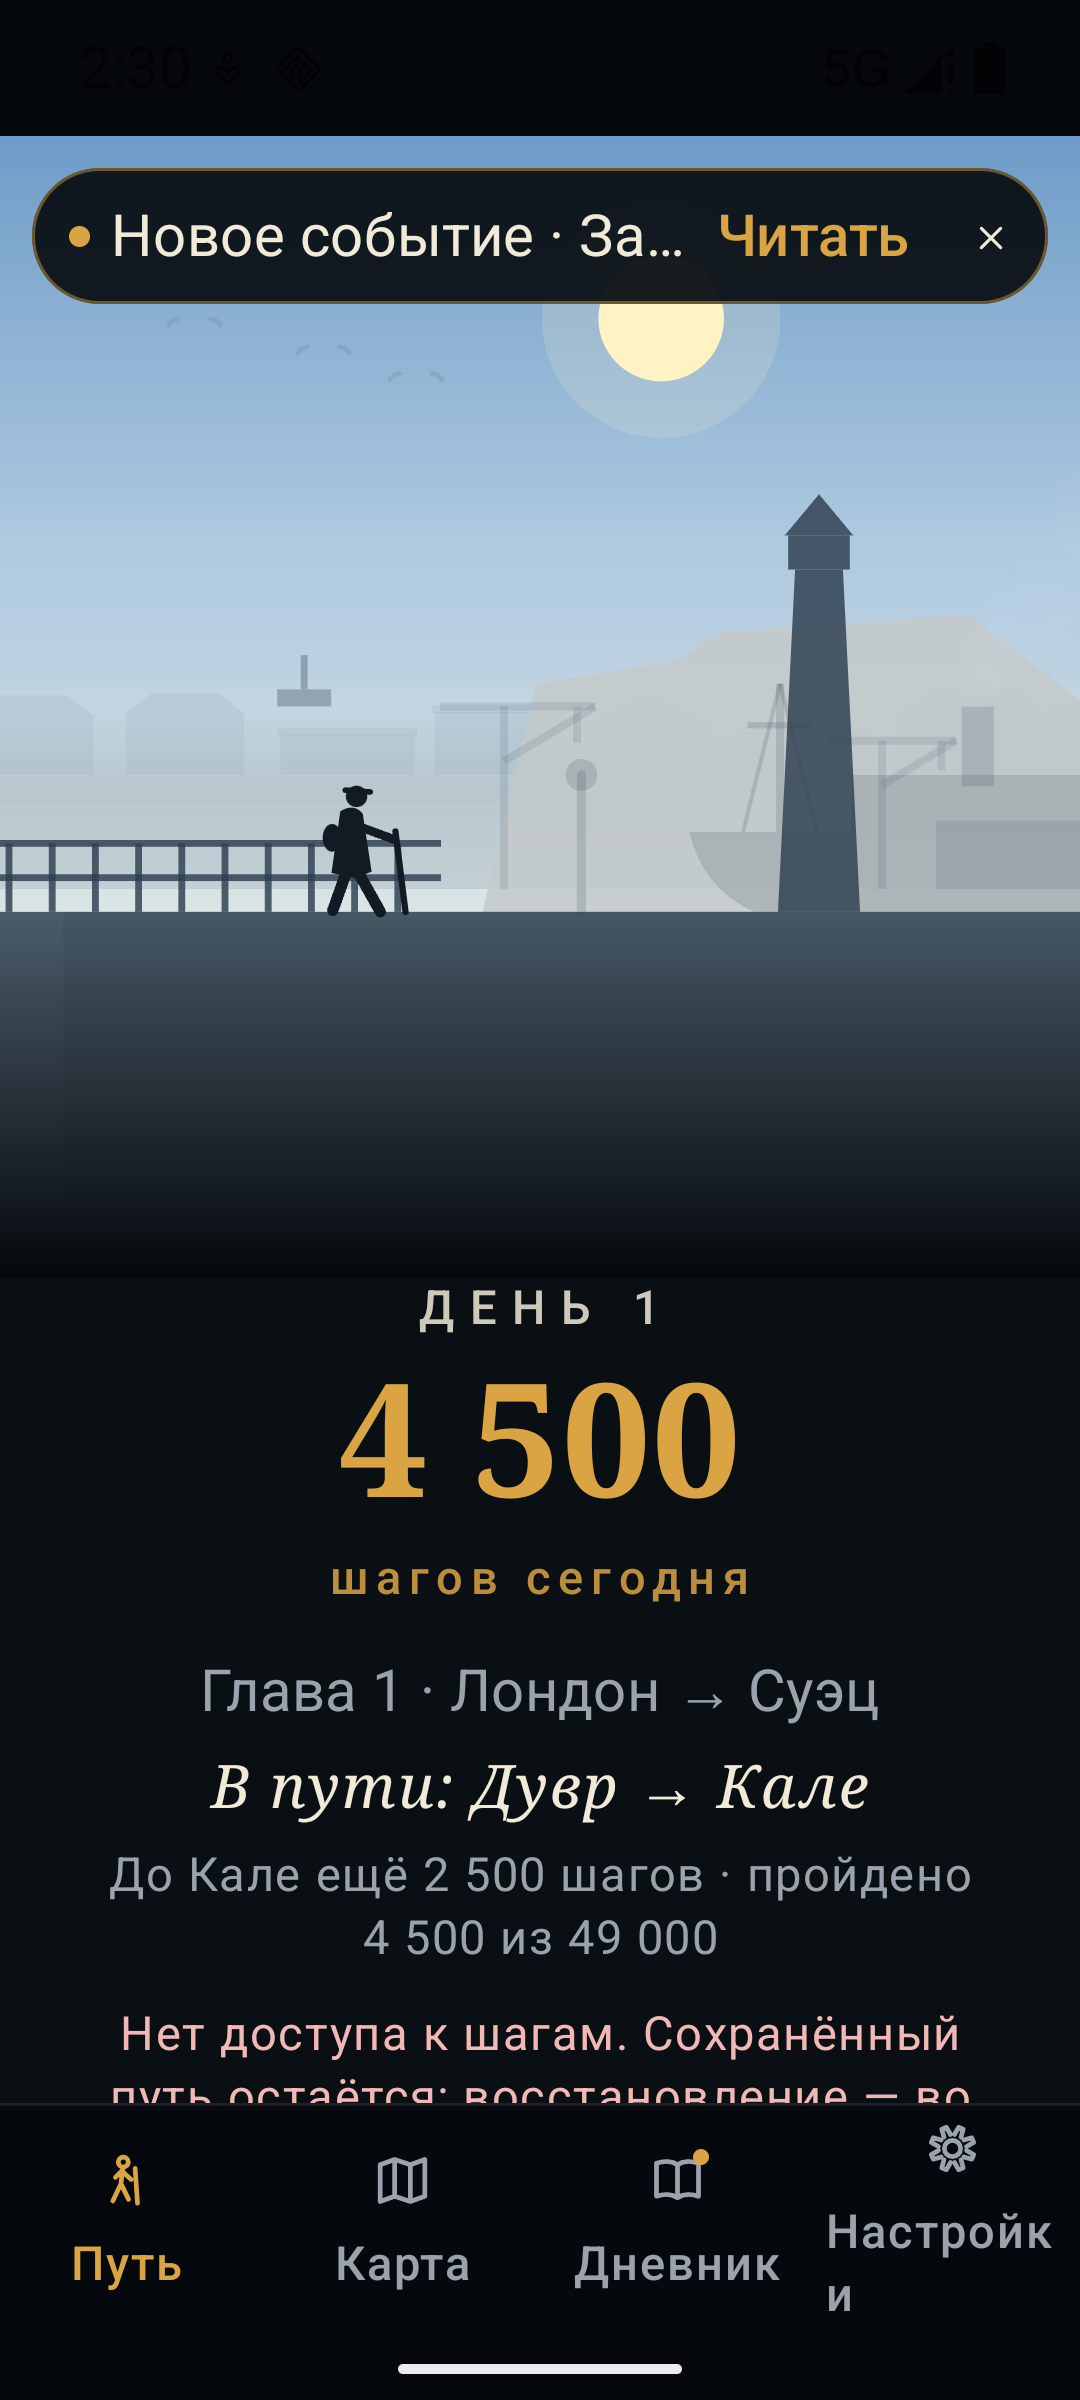
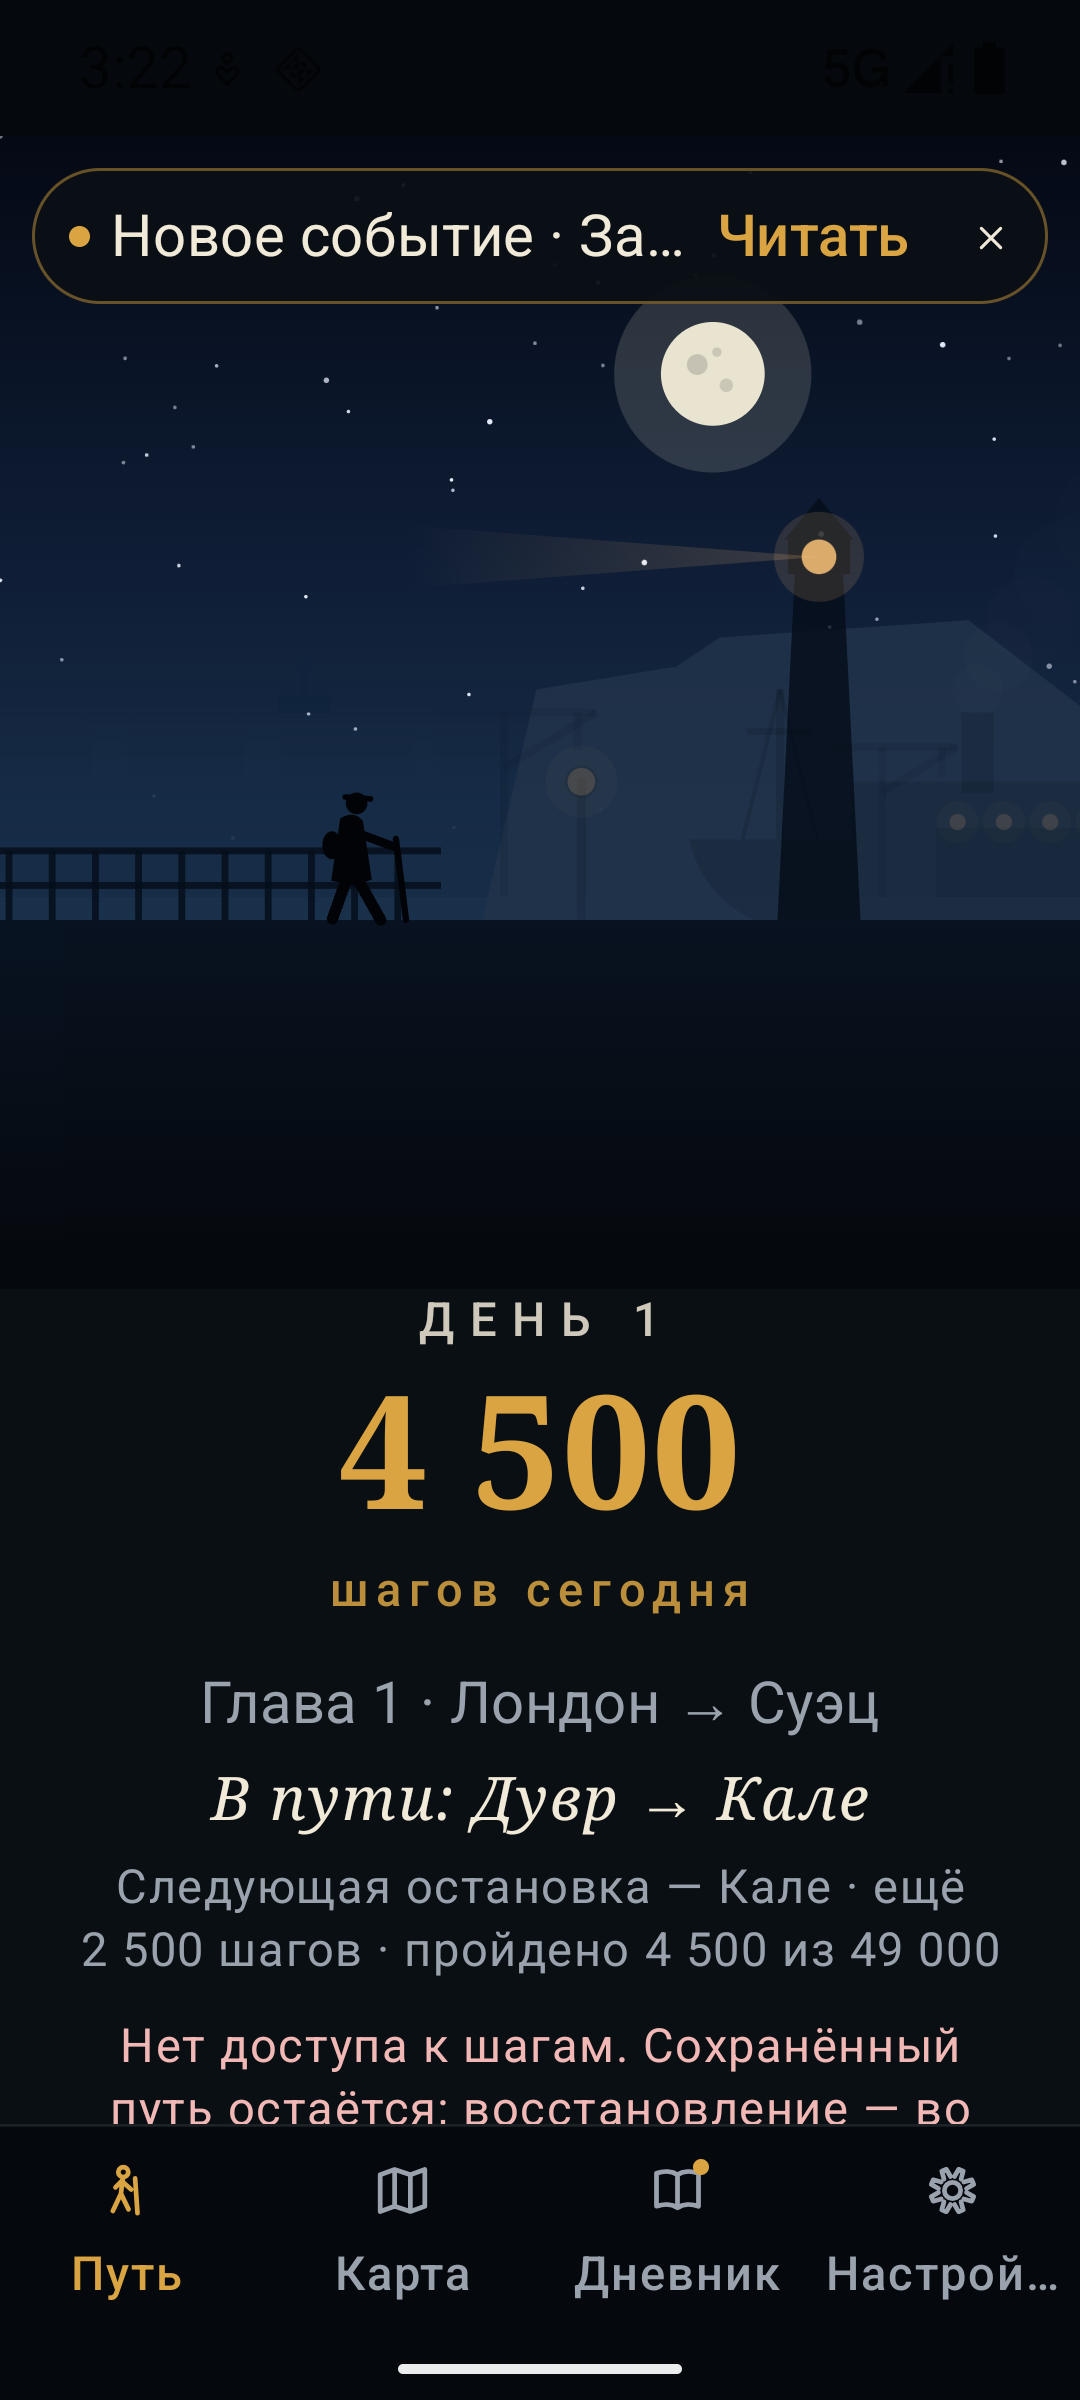
P06: правки astra-review — скролл вкладок, грамматика, font15
- M1: позиции прокрутки на уровне ActiveExpedition, по rememberSaveable
  (ScrollState.Saver) на вкладку (journey/map/diary/health); JourneyHome
  принимает scrollState снаружи — переключение вкладок и поворот
  сохраняют прокрутку
- m3: «До Дувр/До Альпы» → «Следующая остановка — Кале · ещё N шагов»
  на «Пути» и на карте (без программного склонения, имена модели не тронуты)
- M2: p06-home-font15.png переснят на финальном коде — подписи навигации
  в одну строку (maxLines=1 + ellipsis), иконки на одной линии
- docs/design/p06-redesign.md: известные ограничения по astra-review
  (dismiss пилюли сессионный; действие восстановления доступа — в
  «Настройках»; reduced-motion читается на композицию)

Проверки: 39/39 unit, lint 0 ошибок, connectedDebugAndroidTest 11/11
(Pixel 7 / Android 16, syntheticSeed=allow); APK 0.8.0 обновлён в dist/.

diff --git a/app/src/main/java/com/boxowl/aroundtheworld/expedition/ExpeditionPanel.kt b/app/src/main/java/com/boxowl/aroundtheworld/expedition/ExpeditionPanel.kt
@@ -7,6 +7,7 @@ import android.os.Build
 import android.provider.Settings
 import androidx.activity.compose.rememberLauncherForActivityResult
 import androidx.compose.foundation.BorderStroke
+import androidx.compose.foundation.ScrollState
 import androidx.compose.foundation.background
 import androidx.compose.foundation.layout.*
 import androidx.compose.foundation.rememberScrollState
@@ -156,13 +157,19 @@ private fun ActiveExpedition(
     val format = DateTimeFormatter.ofPattern("dd.MM.yyyy HH:mm:ss").withZone(expedition.zone)
     var page by rememberSaveable { mutableStateOf("journey") }
     var dismissedEventIds by rememberSaveable { mutableStateOf(listOf<String>()) }
+    // Per-tab scroll positions survive tab switches and configuration changes.
+    val journeyScroll = rememberSaveable(saver = ScrollState.Saver) { ScrollState(0) }
+    val mapScroll = rememberSaveable(saver = ScrollState.Saver) { ScrollState(0) }
+    val diaryScroll = rememberSaveable(saver = ScrollState.Saver) { ScrollState(0) }
+    val healthScroll = rememberSaveable(saver = ScrollState.Saver) { ScrollState(0) }
     Column(Modifier.fillMaxSize()) {
         Box(Modifier.weight(1f).fillMaxWidth()) {
             val shownEvent = newEvent?.takeIf { page != "diary" && it.id !in dismissedEventIds }
             when (page) {
-                "journey" -> JourneyHome(expedition, now, current.sync, current.syncing, onRefresh)
+                "journey" -> JourneyHome(expedition, now, current.sync, current.syncing, onRefresh,
+                    journeyScroll)
                 "map" -> Column(
-                    Modifier.fillMaxSize().verticalScroll(rememberScrollState()).padding(16.dp),
+                    Modifier.fillMaxSize().verticalScroll(mapScroll).padding(16.dp),
                     verticalArrangement = Arrangement.spacedBy(12.dp),
                 ) {
                     if (shownEvent != null) {
@@ -175,7 +182,7 @@ private fun ActiveExpedition(
                     FirstLegMap(expedition, onOpenDiary = { page = "diary" })
                 }
                 "diary" -> Column(
-                    Modifier.fillMaxSize().verticalScroll(rememberScrollState()).padding(16.dp),
+                    Modifier.fillMaxSize().verticalScroll(diaryScroll).padding(16.dp),
                     verticalArrangement = Arrangement.spacedBy(12.dp),
                 ) {
                     Text("Дневник путешествия", style = MaterialTheme.typography.titleLarge,
@@ -207,7 +214,7 @@ private fun ActiveExpedition(
                     }
                 }
                 else -> Column(
-                    Modifier.fillMaxSize().verticalScroll(rememberScrollState()).padding(16.dp),
+                    Modifier.fillMaxSize().verticalScroll(healthScroll).padding(16.dp),
                     verticalArrangement = Arrangement.spacedBy(12.dp),
                 ) {
                     if (shownEvent != null) {

diff --git a/app/src/main/java/com/boxowl/aroundtheworld/expedition/JourneyHome.kt b/app/src/main/java/com/boxowl/aroundtheworld/expedition/JourneyHome.kt
@@ -1,5 +1,6 @@
 package com.boxowl.aroundtheworld.expedition
 
+import androidx.compose.foundation.ScrollState
 import androidx.compose.foundation.background
 import androidx.compose.foundation.layout.Arrangement
 import androidx.compose.foundation.layout.Box
@@ -12,7 +13,6 @@ import androidx.compose.foundation.layout.height
 import androidx.compose.foundation.layout.padding
 import androidx.compose.foundation.layout.size
 import androidx.compose.foundation.layout.width
-import androidx.compose.foundation.rememberScrollState
 import androidx.compose.foundation.verticalScroll
 import androidx.compose.material3.Icon
 import androidx.compose.material3.MaterialTheme
@@ -49,6 +49,7 @@ internal fun JourneyHome(
     sync: SyncResult?,
     syncing: Boolean,
     onRefresh: () -> Unit,
+    scrollState: ScrollState,
 ) {
     val today = now.atZone(expedition.zone).toLocalDate()
     val stepsToday = expedition.dailySteps[today]
@@ -63,7 +64,7 @@ internal fun JourneyHome(
     BoxWithConstraints(Modifier.fillMaxSize()) {
         val sceneHeight = maxHeight * 0.58f
         Column(
-            Modifier.fillMaxSize().verticalScroll(rememberScrollState()),
+            Modifier.fillMaxSize().verticalScroll(scrollState),
             horizontalAlignment = Alignment.CenterHorizontally,
         ) {
             Box(Modifier.fillMaxWidth().height(sceneHeight)) {
@@ -144,7 +145,7 @@ internal fun JourneyHome(
                     when {
                         next == null -> "Путь главы: ${formatJourneySteps(expedition.firstLegSteps)} " +
                             "из ${formatJourneySteps(expedition.firstLegGoal)} шагов"
-                        hasKnownProgress -> "До ${next.name} ещё " +
+                        hasKnownProgress -> "Следующая остановка — ${next.name} · ещё " +
                             "${formatJourneySteps(next.threshold - expedition.totalSteps)} шагов · " +
                             "пройдено ${formatJourneySteps(expedition.firstLegSteps)} " +
                             "из ${formatJourneySteps(expedition.firstLegGoal)}"

diff --git a/app/src/main/java/com/boxowl/aroundtheworld/expedition/FirstLegMap.kt b/app/src/main/java/com/boxowl/aroundtheworld/expedition/FirstLegMap.kt
@@ -62,7 +62,7 @@ internal fun FirstLegMap(expedition: Expedition, onOpenDiary: () -> Unit) {
             else -> "Известный путь: ${formatJourneySteps(map.knownSteps.coerceAtMost(map.goal))} из ${formatJourneySteps(map.goal)} шагов. " +
                 (if (map.fractionToNext > 0f) "Участок: ${current.name} → ${next.name}. "
                 else "Сейчас: ${current.name}. ") +
-                "До ${next.name}: ${formatJourneySteps(next.threshold - map.knownSteps)} шагов."
+                "Следующая остановка — ${next.name} · ещё ${formatJourneySteps(next.threshold - map.knownSteps)} шагов."
         }, color = ExpeditionMuted)
         if (!largeFont) RouteIllustration(map)
         else Text("Схема маршрута ниже представлена списком: все остановки и их состояния доступны текстом.",

diff --git a/docs/design/p06-redesign.md b/docs/design/p06-redesign.md
@@ -46,3 +46,9 @@
 - Дневной Суэц пока ближе к «пыльной дымке», чем к яркому песку; кандидат на палитровую итерацию.
 - Смена дня/ночи на скриншотах выполнена через `adb shell date` (root на эмуляторе) — сняты только день (~14:00) и ночь (~02:00); рассвет/закат проверены кодом лерпа, отдельными скриншотами не зафиксированы.
 - Физическая приёмка Health Connect (P02/Q01) этой задачей не затрагивается и эмулятором не подтверждается.
+
+### Известные ограничения UI (по astra-review, сознательно оставлены)
+
+- Скрытие пилюли «Новое событие» при нескольких непрочитанных прячет пилюлю до перезапуска приложения (dismiss-список сессионный); бейдж непрочитанных и «Новая запись» в дневнике при этом сохраняются, явное «Отметить прочитанной» не затрагивается.
+- На «Пути» ошибка доступа к шагам — текст-указатель («восстановление — во вкладке "Настройки"»); само действие (запрос разрешения, экран Health Connect) находится во вкладке «Настройки», кроме компактной кнопки «Сверить шаги».
+- Reduced-motion читается из `ANIMATOR_DURATION_SCALE` один раз на композицию сцены: смена системной настройки при открытом экране применится после пересоздания экрана (переход между вкладками или перезапуск).
